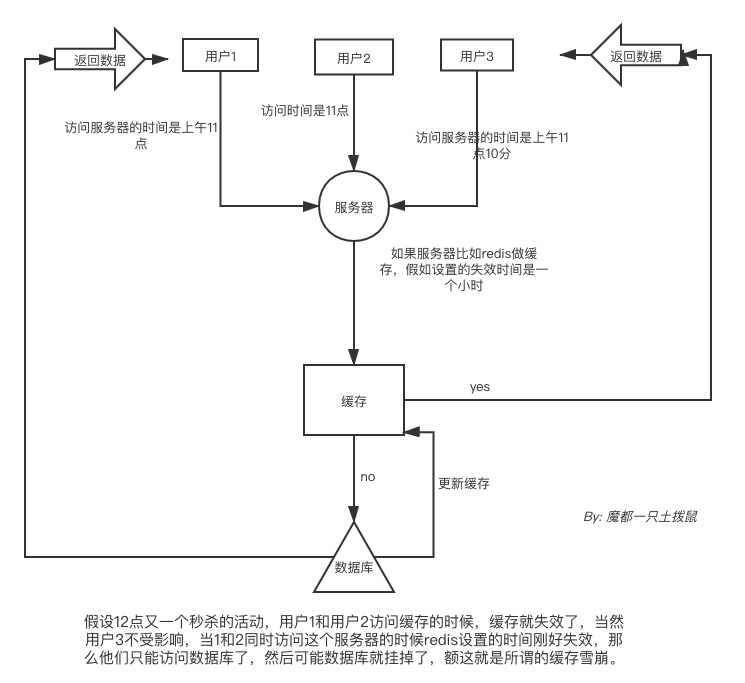
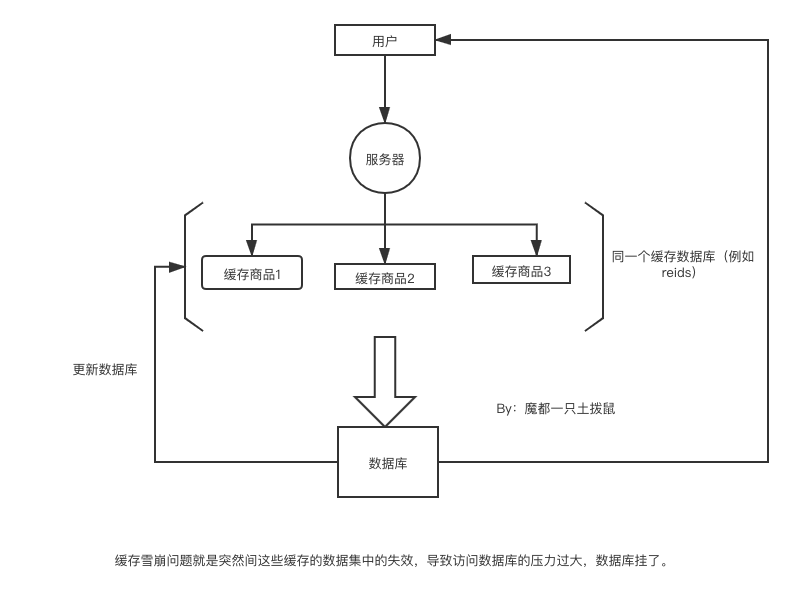
add

diff --git a/系统设计/性能/缓存/1.md b/系统设计/性能/缓存/1.md
@@ -3,12 +3,10 @@
 在说明这几种情况的前提下说一下，任何使用了缓存的系统都要面临着数据一致性的问题，就算是再快的缓存也有可能跟数据库中的实际数据不一致，
 所以说如果一个场景下的实际的数据要求一致性超级高，就别用缓存了。
 
+雪崩的问题是 大面积的商品都过期了。
 ![1](./1.1.png)
 
 ## 如何解决？
-
-我们来分析一下：关键的地方就是又一批人很点背在刚好失效的时间点的前一个小时（11点）访问了数据，一大波人不受影响例如3号，她就无所谓
-那么我们只需要将1 2 这种点背的人处理一下就OK了。
 
 ### 解决方法一 添加一个随机数
 
@@ -16,18 +14,37 @@
 // 伪代码
 setRedisTime(time+random) // 时间+随机值
 ```
- 我们让所有人都是设置的时候+一个随机数，这样只有11点并且随机数是0的超级大点背的人才会去访问数据库，那么数据库的压力就会小很多，这样就可以去避免雪崩的问题了。
+ 我们都是设置不同商品的时候+一个随机数，那么数据库的压力就会小很多，这样就可以去避免雪崩的问题了。
+### 解决方法二
 
+我们可以将这个缓存设置为永不过期。
 ### 布隆过滤器
 
-### 添加二级缓存
-
-### 阻塞队列
-
-### 自旋锁
-
-
 # 缓存击穿问题
+![1](./1.3.png)
+## 如何解决
+
+### 设置永不过期
+
+我们可以在用户少的情况下更新这个缓存，然后设置这个缓存永不过期就OK了，比如在双十一来临的前5个小时更新了这个数据，然后设置缓存就不停止了，直到双十一过完。
+
+### 设置互斥锁
+
+我们将从缓存中查询不到数据开始谁知一个lock，然后直到更新完缓存中的数据结束锁开。这样只能有一个用户去进行缓存数据更新这个操作了。自然数据库的压力就小了
+
+```go
+if 缓存中没有数据{
+  if 可以锁住 {
+    去数据库中获取数据
+   更新缓存
+   开锁  
+  }else{
+  100ms后再次去查询缓存。  
+  }
+}
+```
+
+
 
 # 缓存穿透问题
 ![1.2](./1.2.png)
